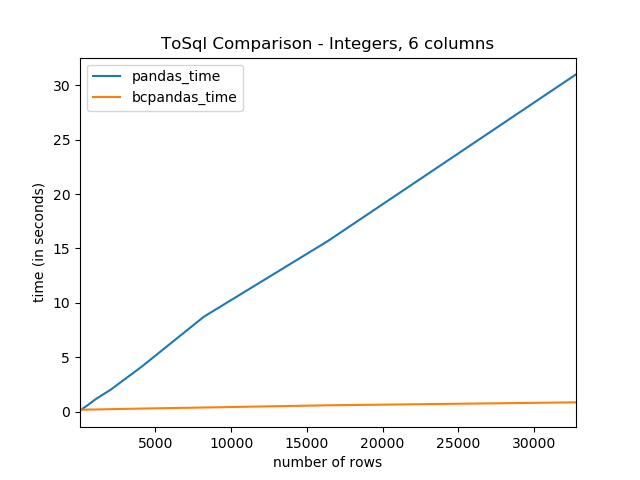
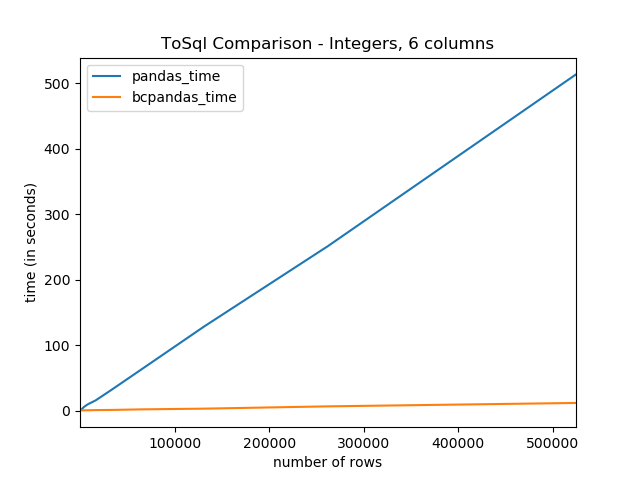
benchmark with more data

diff --git a/benchmarks/benchmark.py b/benchmarks/benchmark.py
@@ -137,7 +137,7 @@ def main(plot_file="benchmark.png"):
 
     docker_generator, creds = setup()
 
-    EXPONENT_LIMIT = 16  # set to 20
+    EXPONENT_LIMIT = 20  # set to 20
     num_cols = 6
     results = []
     for n in range(4, EXPONENT_LIMIT):
